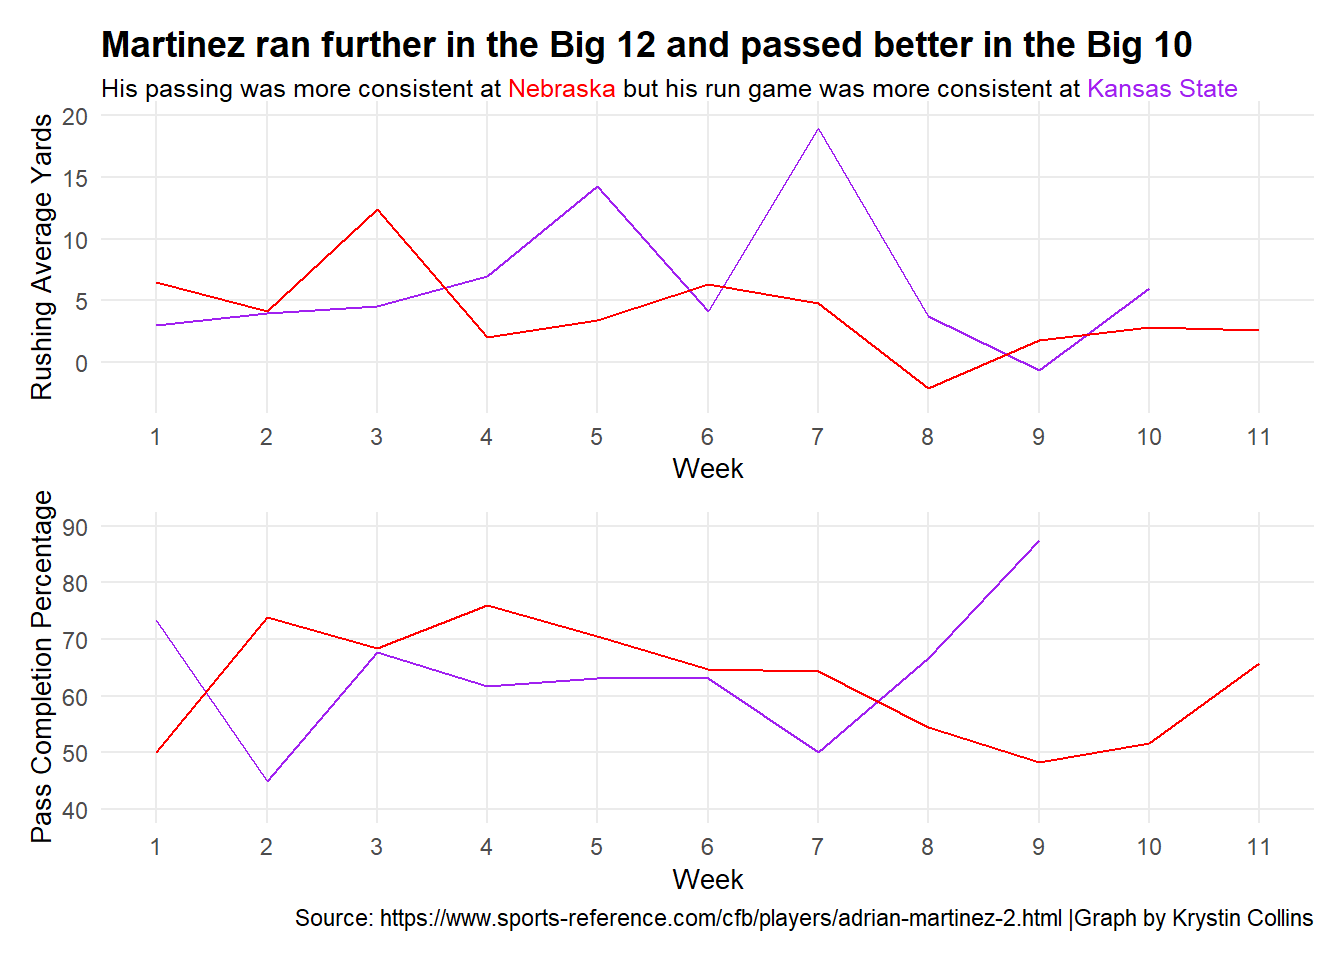
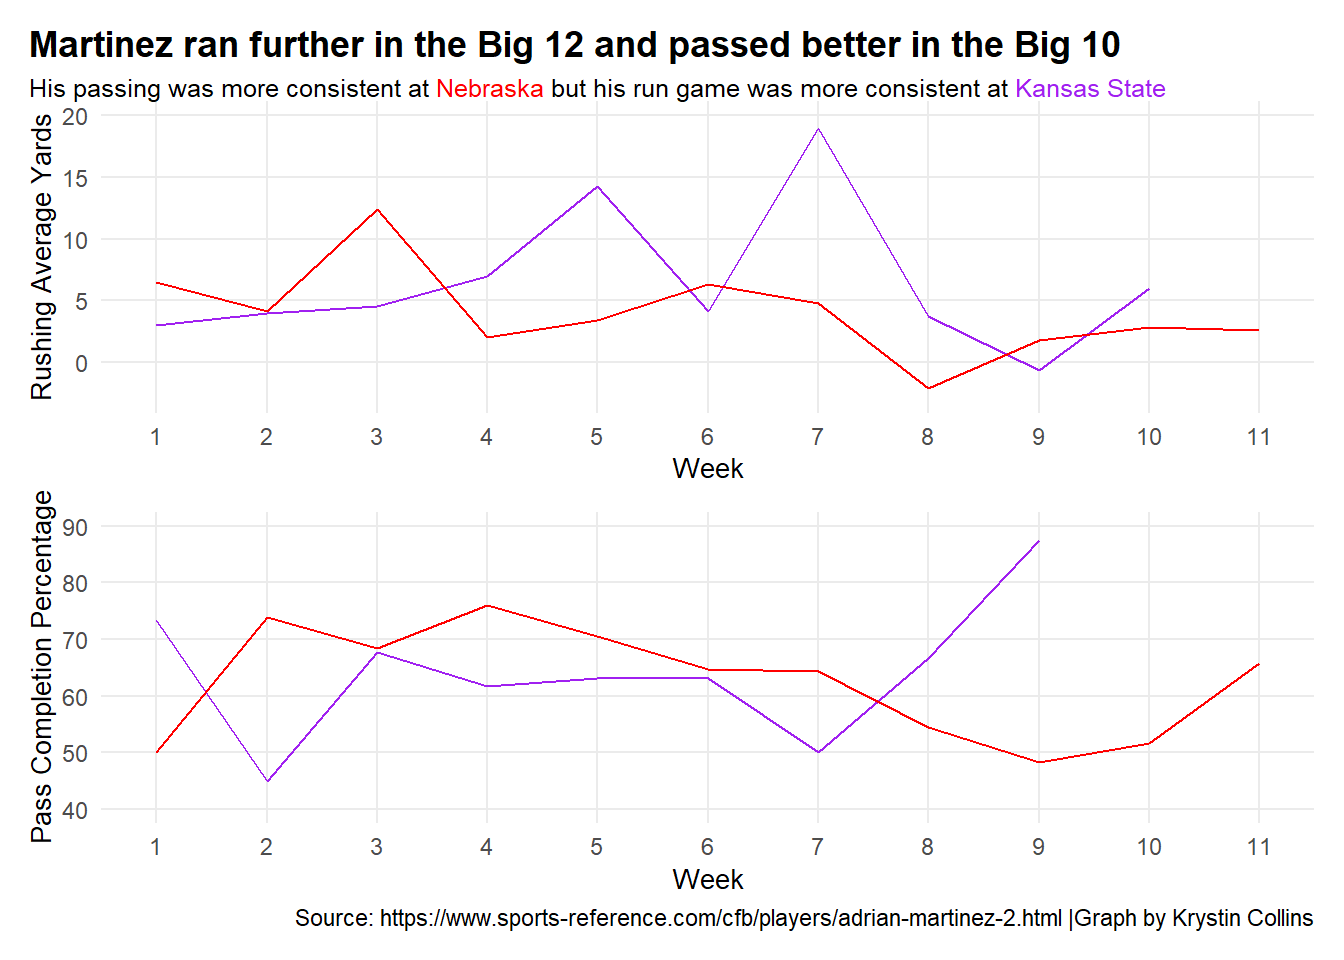
title

Changed region(s): [[0.0, 0.0312, 0.9062, 0.125]]

diff --git a/posts/adrians-move-from-nebraska/index.html b/posts/adrians-move-from-nebraska/index.html
@@ -249,10 +249,11 @@ pre > code.sourceCode > span > a:first-child::before { text-decoration: underlin
 <span id="cb1-48"><a href="#cb1-48" aria-hidden="true" tabindex="-1"></a>    <span class="at">plot.title =</span> <span class="fu">element_text</span>(<span class="at">size =</span> <span class="fl">13.5</span>, <span class="at">face =</span> <span class="st">"bold"</span>),</span>
 <span id="cb1-49"><a href="#cb1-49" aria-hidden="true" tabindex="-1"></a>    <span class="at">plot.subtitle =</span> <span class="fu">element_textbox_simple</span>(<span class="at">size =</span> <span class="fl">9.5</span>),</span>
 <span id="cb1-50"><a href="#cb1-50" aria-hidden="true" tabindex="-1"></a>    <span class="at">axis.title =</span> <span class="fu">element_text</span>(<span class="at">size =</span> <span class="dv">10</span>),</span>
-<span id="cb1-51"><a href="#cb1-51" aria-hidden="true" tabindex="-1"></a>    <span class="at">panel.grid.minor =</span> <span class="fu">element_blank</span>()</span>
-<span id="cb1-52"><a href="#cb1-52" aria-hidden="true" tabindex="-1"></a>  )</span>
-<span id="cb1-53"><a href="#cb1-53" aria-hidden="true" tabindex="-1"></a></span>
-<span id="cb1-54"><a href="#cb1-54" aria-hidden="true" tabindex="-1"></a>rushing <span class="sc">/</span> passing</span></code><button title="Copy to Clipboard" class="code-copy-button"><i class="bi"></i></button></pre></div>
+<span id="cb1-51"><a href="#cb1-51" aria-hidden="true" tabindex="-1"></a>    <span class="at">panel.grid.minor =</span> <span class="fu">element_blank</span>(),</span>
+<span id="cb1-52"><a href="#cb1-52" aria-hidden="true" tabindex="-1"></a>    <span class="at">plot.title.position =</span> <span class="st">"plot"</span></span>
+<span id="cb1-53"><a href="#cb1-53" aria-hidden="true" tabindex="-1"></a>  )</span>
+<span id="cb1-54"><a href="#cb1-54" aria-hidden="true" tabindex="-1"></a></span>
+<span id="cb1-55"><a href="#cb1-55" aria-hidden="true" tabindex="-1"></a>rushing <span class="sc">/</span> passing</span></code><button title="Copy to Clipboard" class="code-copy-button"><i class="bi"></i></button></pre></div>
 </details>
 <div class="cell-output-display">
 <div>
@@ -379,18 +380,19 @@ pre > code.sourceCode > span > a:first-child::before { text-decoration: underlin
 <span id="cb4-26"><a href="#cb4-26" aria-hidden="true" tabindex="-1"></a>  <span class="fu">theme</span>(</span>
 <span id="cb4-27"><a href="#cb4-27" aria-hidden="true" tabindex="-1"></a>    <span class="at">plot.title =</span> <span class="fu">element_text</span>(<span class="at">size =</span> <span class="dv">16</span>, <span class="at">face =</span> <span class="st">"bold"</span>),</span>
 <span id="cb4-28"><a href="#cb4-28" aria-hidden="true" tabindex="-1"></a>    <span class="at">axis.title =</span> <span class="fu">element_text</span>(<span class="at">size =</span> <span class="dv">8</span>),</span>
-<span id="cb4-29"><a href="#cb4-29" aria-hidden="true" tabindex="-1"></a>    <span class="at">plot.subtitle =</span> <span class="fu">element_text</span>(<span class="at">size =</span> <span class="dv">10</span>)),</span>
-<span id="cb4-30"><a href="#cb4-30" aria-hidden="true" tabindex="-1"></a>  <span class="fu">waffle</span>(</span>
-<span id="cb4-31"><a href="#cb4-31" aria-hidden="true" tabindex="-1"></a>  nutotal, </span>
-<span id="cb4-32"><a href="#cb4-32" aria-hidden="true" tabindex="-1"></a>  <span class="at">rows =</span> <span class="dv">10</span>, </span>
-<span id="cb4-33"><a href="#cb4-33" aria-hidden="true" tabindex="-1"></a>  <span class="at">xlab =</span> <span class="st">"1 square = 2 yards"</span>, </span>
-<span id="cb4-34"><a href="#cb4-34" aria-hidden="true" tabindex="-1"></a>  <span class="at">colors =</span> <span class="fu">c</span>(<span class="st">"black"</span>, <span class="st">"red"</span>, <span class="st">"white"</span>)</span>
-<span id="cb4-35"><a href="#cb4-35" aria-hidden="true" tabindex="-1"></a>) <span class="sc">+</span></span>
-<span id="cb4-36"><a href="#cb4-36" aria-hidden="true" tabindex="-1"></a>  <span class="fu">labs</span>(</span>
-<span id="cb4-37"><a href="#cb4-37" aria-hidden="true" tabindex="-1"></a>    <span class="at">caption =</span> <span class="st">"Source: https://www.sports-reference.com/cfb/| Graph by Krystin Collins"</span></span>
-<span id="cb4-38"><a href="#cb4-38" aria-hidden="true" tabindex="-1"></a>  )</span>
-<span id="cb4-39"><a href="#cb4-39" aria-hidden="true" tabindex="-1"></a>) <span class="sc">+</span></span>
-<span id="cb4-40"><a href="#cb4-40" aria-hidden="true" tabindex="-1"></a>  <span class="fu">theme_minimal</span>() </span></code><button title="Copy to Clipboard" class="code-copy-button"><i class="bi"></i></button></pre></div>
+<span id="cb4-29"><a href="#cb4-29" aria-hidden="true" tabindex="-1"></a>    <span class="at">plot.subtitle =</span> <span class="fu">element_text</span>(<span class="at">size =</span> <span class="dv">10</span>),</span>
+<span id="cb4-30"><a href="#cb4-30" aria-hidden="true" tabindex="-1"></a>    <span class="at">plot.title.position =</span> <span class="st">"plot"</span>),</span>
+<span id="cb4-31"><a href="#cb4-31" aria-hidden="true" tabindex="-1"></a>  <span class="fu">waffle</span>(</span>
+<span id="cb4-32"><a href="#cb4-32" aria-hidden="true" tabindex="-1"></a>  nutotal, </span>
+<span id="cb4-33"><a href="#cb4-33" aria-hidden="true" tabindex="-1"></a>  <span class="at">rows =</span> <span class="dv">10</span>, </span>
+<span id="cb4-34"><a href="#cb4-34" aria-hidden="true" tabindex="-1"></a>  <span class="at">xlab =</span> <span class="st">"1 square = 2 yards"</span>, </span>
+<span id="cb4-35"><a href="#cb4-35" aria-hidden="true" tabindex="-1"></a>  <span class="at">colors =</span> <span class="fu">c</span>(<span class="st">"black"</span>, <span class="st">"red"</span>, <span class="st">"white"</span>)</span>
+<span id="cb4-36"><a href="#cb4-36" aria-hidden="true" tabindex="-1"></a>) <span class="sc">+</span></span>
+<span id="cb4-37"><a href="#cb4-37" aria-hidden="true" tabindex="-1"></a>  <span class="fu">labs</span>(</span>
+<span id="cb4-38"><a href="#cb4-38" aria-hidden="true" tabindex="-1"></a>    <span class="at">caption =</span> <span class="st">"Source: https://www.sports-reference.com/cfb/| Graph by Krystin Collins"</span></span>
+<span id="cb4-39"><a href="#cb4-39" aria-hidden="true" tabindex="-1"></a>  )</span>
+<span id="cb4-40"><a href="#cb4-40" aria-hidden="true" tabindex="-1"></a>) <span class="sc">+</span></span>
+<span id="cb4-41"><a href="#cb4-41" aria-hidden="true" tabindex="-1"></a>  <span class="fu">theme_minimal</span>() </span></code><button title="Copy to Clipboard" class="code-copy-button"><i class="bi"></i></button></pre></div>
 </details>
 <div class="cell-output-display">
 <div>

diff --git a/index.html b/index.html
@@ -210,7 +210,7 @@ window.Quarto = {
 
 <div class="quarto-listing quarto-listing-container-default" id="listing-listing">
 <div class="list quarto-listing-default">
-<div class="quarto-post image-right" data-index="0" data-categories="Zm9vdGJhbGw=" data-listing-date-sort="1731823200000" data-listing-file-modified-sort="1731784164326" data-listing-date-modified-sort="NaN" data-listing-reading-time-sort="7" data-listing-word-count-sort="1339">
+<div class="quarto-post image-right" data-index="0" data-categories="Zm9vdGJhbGw=" data-listing-date-sort="1731823200000" data-listing-file-modified-sort="1731784368608" data-listing-date-modified-sort="NaN" data-listing-reading-time-sort="7" data-listing-word-count-sort="1351">
 <div class="thumbnail">
 <p><a href="./posts/adrians-move-from-nebraska/index.html" class="no-external"></a></p><a href="./posts/adrians-move-from-nebraska/index.html" class="no-external">
 <p class="card-img-top"><img src="posts\adrians-move-from-nebraska\index_files\figure-html\unnamed-chunk-1-1.png"  class="thumbnail-image card-img"/></p>
